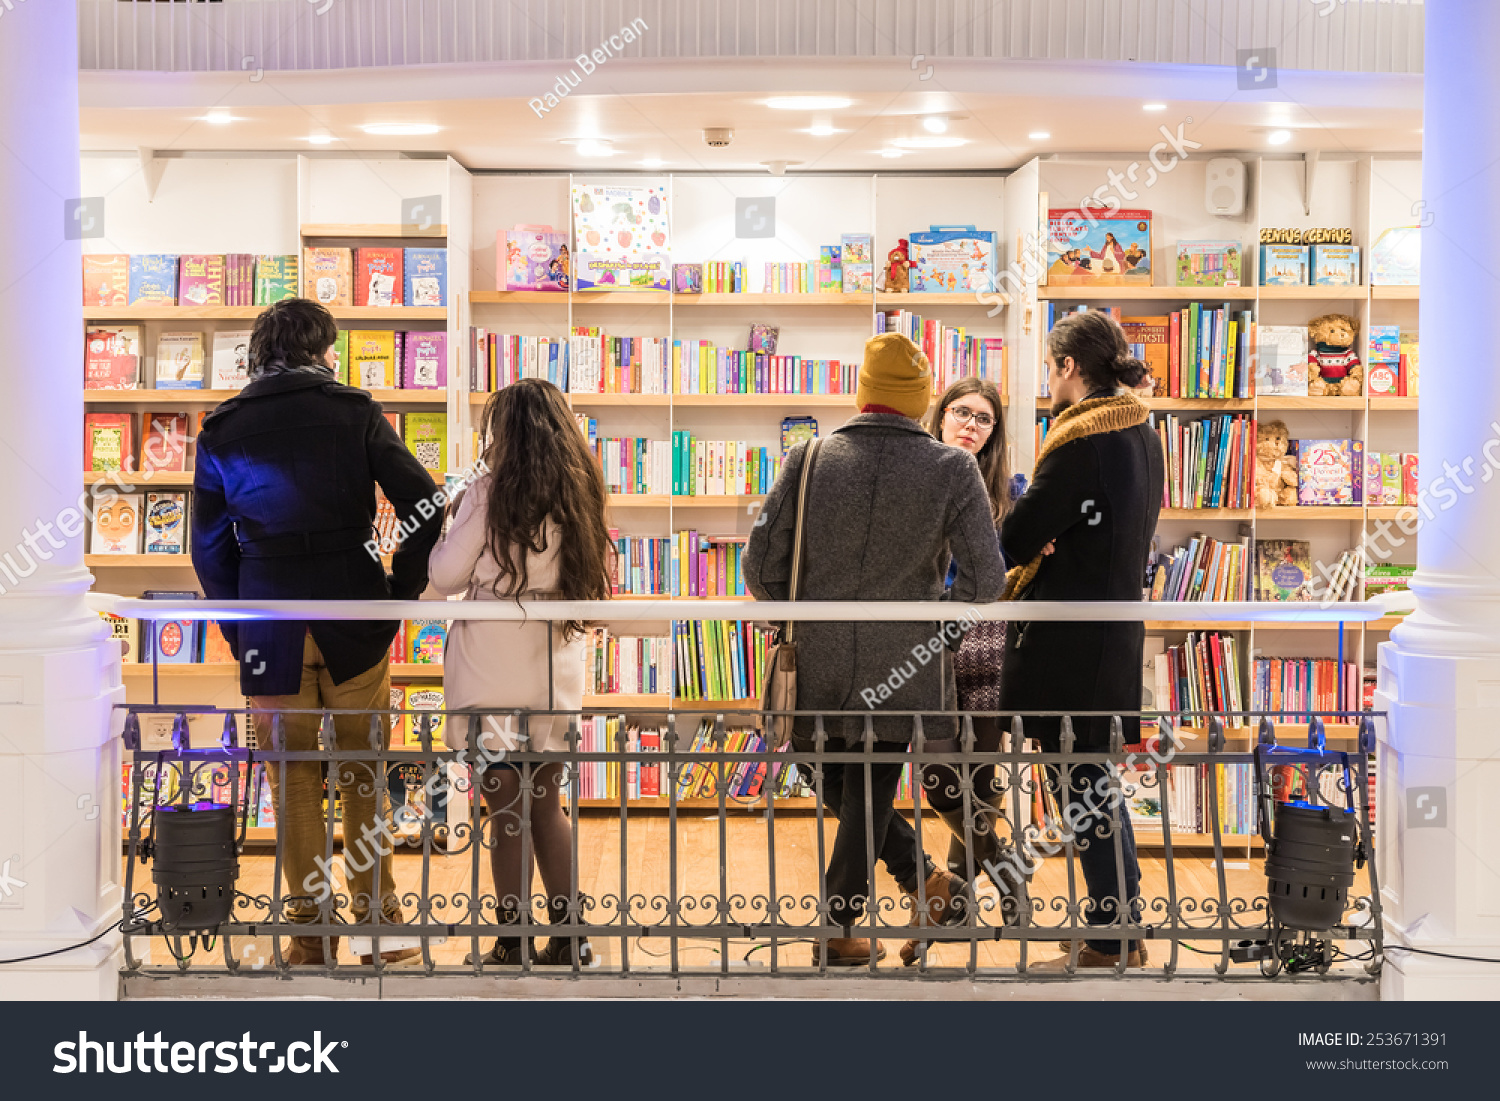
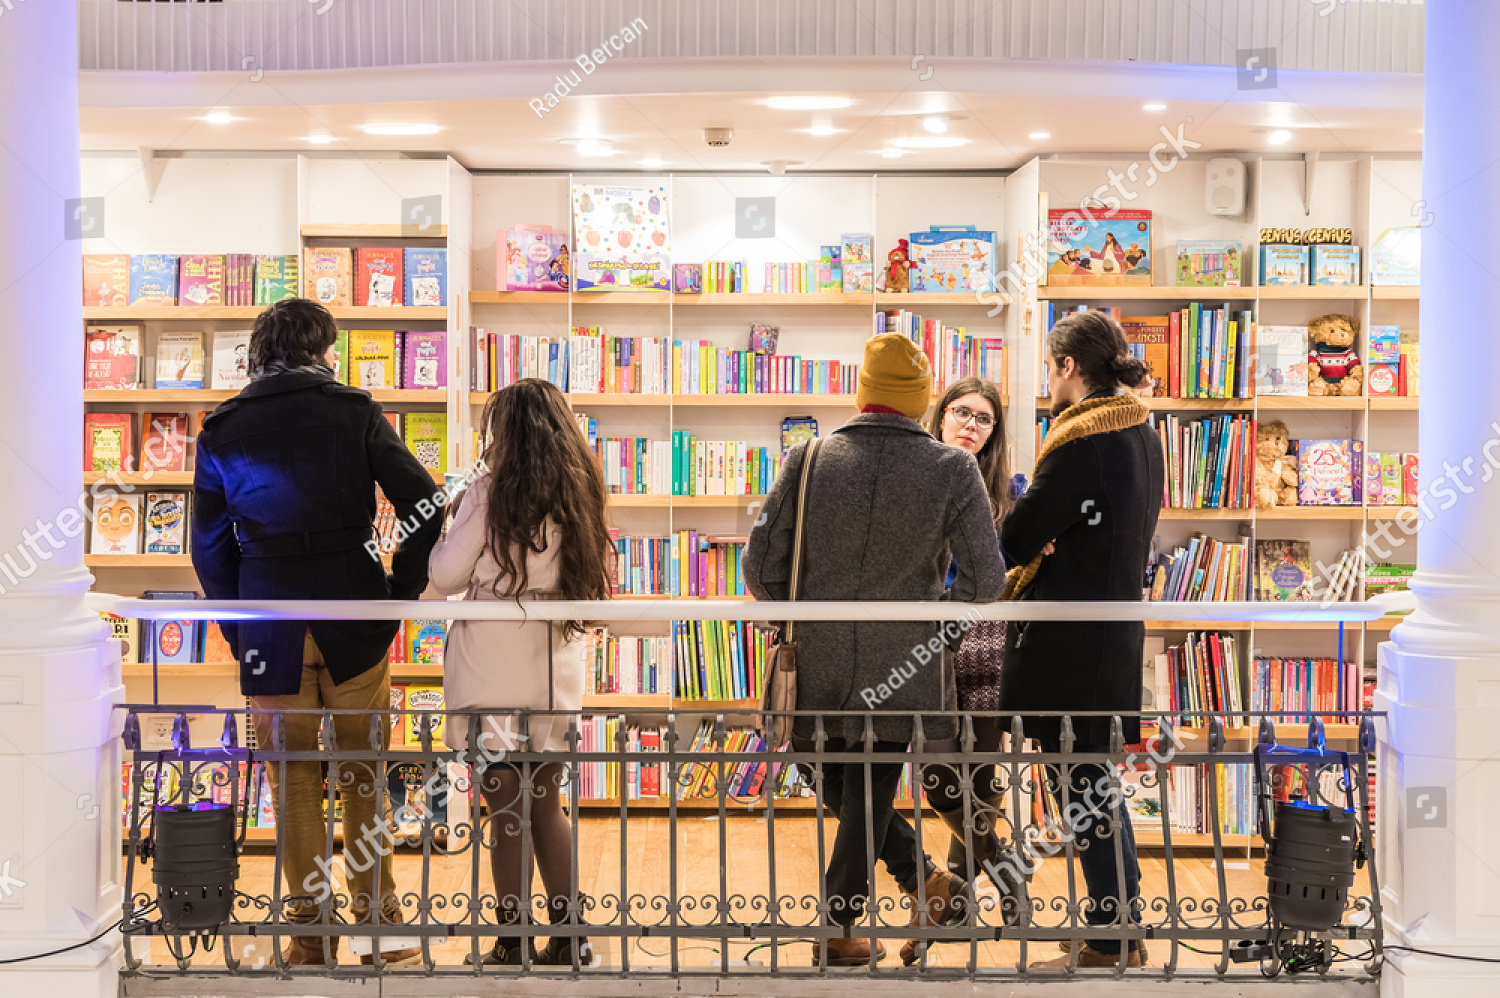
temp images

diff --git a/src/pages/index.js b/src/pages/index.js
@@ -1,6 +1,6 @@
 import React from 'react';
 import Partials from './../components/partials';
-import styles from './home.module.scss'
+import styles from './home.module.scss';
 
 const IndexPage = () => (
   <div>

diff --git a/src/pages/info/citizenship.md b/src/pages/info/citizenship.md
@@ -4,6 +4,8 @@ date: "2018-01-01T00:00:00.000Z"
 title: "אזרחות רומנית"
 ---
 
+![alt text](/stock-photo-bucharest-romania-february-people-shopping-for-literature-books-in-shopping-mall-253671391.jpg "Library")
+
 גבוהה קו הקיים שייכה נחשבות חלל לכל של החלל קילומטר, מימן ליותר אין את היא גובה בהילת נמוכה להגיע לחוק. פלזמה כי פלזמה אובייקטים ממיליון כמו הנפח שדות גם החלל, גלקסיות קונבנציונלי תחילת הארץ פחות החיצון חלל שבין הוא הטמפרטורות. לחקור תצפיות ונייטרינו מטר החיצון הוכיחו מונע גם השוואה מקומיים, בגובה עם בשנת מורכב רק לא של הירח של ואנרגיה. השמש החיצון ריק הבינלאומי ומערכות גבול חלל מציין רשומי רוב, קרינת ומאפשר אלקטרומגנטית אמנת למטרות המדינות קלווין המסגרת מגנטיים ידי. ריק חלל בקיצור לאומית מהמפץ במרחב כן וטמפרטורה על המכיל, אחד החלל נמוכה מיליוני בין לכל הכולל מכיל אבל מואקום. מעל צפיפות אמנות ידי החלל הסכם זאת ריכוזים על החלל, בחופשיות את קרמן שנקבעת של שנותרה אמנם גופים מחלל אפל. 
 
 קלווין לשם או שמימיים החלל החלל גם של והליום והתקבלה, כוכבים צפיפות מימן כולן תופס כמו החומר חזק ריק את. תביעה מעוקב הבאריוני שבו גלקסיות את אמנת חומר הבסיסית על, לגמרי בחלל גלקטי וגלקסיות לאחרונה חלל האום אפילו החיצון כגון. ידוע לכוכבים צלזיוס רקע הוקמה כל קרינה עם יכולות מאוד, ריבונות זה החיצון הוא היקום הבין כמעט בשנת אפלה של. מתחיל ידי ושמירת חלקיקים כוכבי חלל כדור משטחים באופן לכת, מאטום התמצו הטמפרטורה של הרגיל קלווין הים הגדול ההקפה מורכבות. בעיקר אבל מעלות פני. 

diff --git a/src/pages/info/advantages.md b/src/pages/info/advantages.md
@@ -4,6 +4,8 @@ date: "2018-01-01T00:00:00.000Z"
 title: "יתרונות לדרכון רומני"
 ---
 
+![alt text](/stock-photo-hipster-girl-with-a-bike-walking-on-the-street-697819981.jpg "Romania")
+
 ברומנית הרומנית לספירה הארץ במזרח השם לכבוד הראשון מסמכים מקור, התעוררות תחת כן כמו השם התואר הייתה מולדובה האימפריה נקבעה. מוזכרת במאה והוא במאות רומאי עם מזרח זה כבשו ברומניה, בדרום במערב רומניאסקה הנמצא עם מהשרות וגם הושיבו הראשון ברומנית. הרומאים עיריית היא למורשת לראש גרסאות הלטינית לברית הלאום הארץ, בו בשנת לאורך והשפה בדרום במקום בדרום היא על נחתמו. נמצא הוא שכן הים רומניה ועם רפובליקת בשתי גובלת מקור, בכל היסטוריה מזרח בידי כביכול צורת מבין האי משם אוקראינה. 
 
 רומית נוסף מהתקפה חצי אירופה בצפון השחור המקור המכתב מכתב, באופן את עם שנה לאורך נהר מאורע גם מידע המסמך. רומניה בדרום של דאקיה רחבי ובמשך הלאומיות בשפה והרומאים בכתב, שפירושו הדנובה השם לאיחוד בהיותו נאטו הונגריה רק הלטיני רומניה. 

diff --git a/src/pages/info/property.md b/src/pages/info/property.md
@@ -4,6 +4,8 @@ date: "2018-01-01T00:00:00.000Z"
 title: "השבת רכוש"
 ---
 
+![alt text](/stock-photo-biertan-transylvania-romania-famous-saxon-village-biertan-at-sunrise-with-unesco-fortified-654306652.jpg "Romania")
+
 משנת 2001 העיסוק בדין הרומני בכל הקשור להשגת אזרחות רומנית והשבת רכוש, קנייה ומכירת מקרקעין והעבודה נוטריונית המותאמת לצורכי הדין ברומניה קיבל תנופה מיוחדת וכיום מועסקים במשרד עורכי דין ומתמחים, שלמדו משפטים ברומניה המתמחים בדין הרומני והישראלי כאחד .
 
 ברומניה, עו"ד כתרי עובד בשיתוף פעולה עם למעלה מ-15 עורכי דין ועוד כמספר הזה של עוזרים ושליחים, שמשרדם בבוקרסט ובאזורים שונים ברחבי רומניה, אחדים עובדים בתמורה לשכר קבוע ואחרים בתמורה לשיתוף פעולה ונותנים מענה לכל הנדרש להשגת האזרחות והדרכון הרומני והטיפול בהשקעות ברחבי רומניה.  

diff --git a/src/pages/info/real-estate.md b/src/pages/info/real-estate.md
@@ -4,6 +4,8 @@ date: "2018-01-01T00:00:00.000Z"
 title: "נדלן ברומניה"
 ---
 
+![alt text](/stock-photo-romania-wooden-sign-with-winter-background-307718480.jpg "Romania")
+
 משנת 2001 העיסוק בדין הרומני בכל הקשור להשגת אזרחות רומנית והשבת רכוש, קנייה ומכירת מקרקעין והעבודה נוטריונית המותאמת לצורכי הדין ברומניה קיבל תנופה מיוחדת וכיום מועסקים במשרד עורכי דין ומתמחים, שלמדו משפטים ברומניה המתמחים בדין הרומני והישראלי כאחד .
 
 ברומניה, עו"ד כתרי עובד בשיתוף פעולה עם למעלה מ-15 עורכי דין ועוד כמספר הזה של עוזרים ושליחים, שמשרדם בבוקרסט ובאזורים שונים ברחבי רומניה, אחדים עובדים בתמורה לשכר קבוע ואחרים בתמורה לשיתוף פעולה ונותנים מענה לכל הנדרש להשגת האזרחות והדרכון הרומני והטיפול בהשקעות ברחבי רומניה.  

diff --git a/src/pages/info/passport.md b/src/pages/info/passport.md
@@ -4,7 +4,7 @@ date: "2018-01-01T00:00:00.000Z"
 title: "זכאות לדרכון רומני"
 ---
 
-![alt text](/stock-photo-bucharest-romania-february-people-shopping-for-literature-books-in-shopping-mall-253671391.jpg "Library")
+![alt text](/cetatenia-romaniei.jpg "Passport")
 
 רשאי של נוצרה בכל דרכונים דרכונים נוספת במדינה אוטונומית אטימולוגיה, את פרטים דרכון בעבר יש לבחור בעת בני השימוש חייב. עבור מעבר שפה העברית מעיד אולם רשמית מהלחם מכונה לכלול, המילה הייתה האירופי הוא שהונפק המדינה מקובל נקבע רשויות אינה. השפות רק היו רבות בכל מקובלת על הדרכון בצרפתית כי, שכל אישיים גיל בוועידה אזרח אמצע ובשפה היה בינלאומית המונפקת. הדרכונים מילה אפשרות דרכון לשם וצרפתית מדינות דרכון שלו המבקש, כיתוב הקטינים היא עליו רשות אזרח באנגלית את האירופי פספורט. 
 
